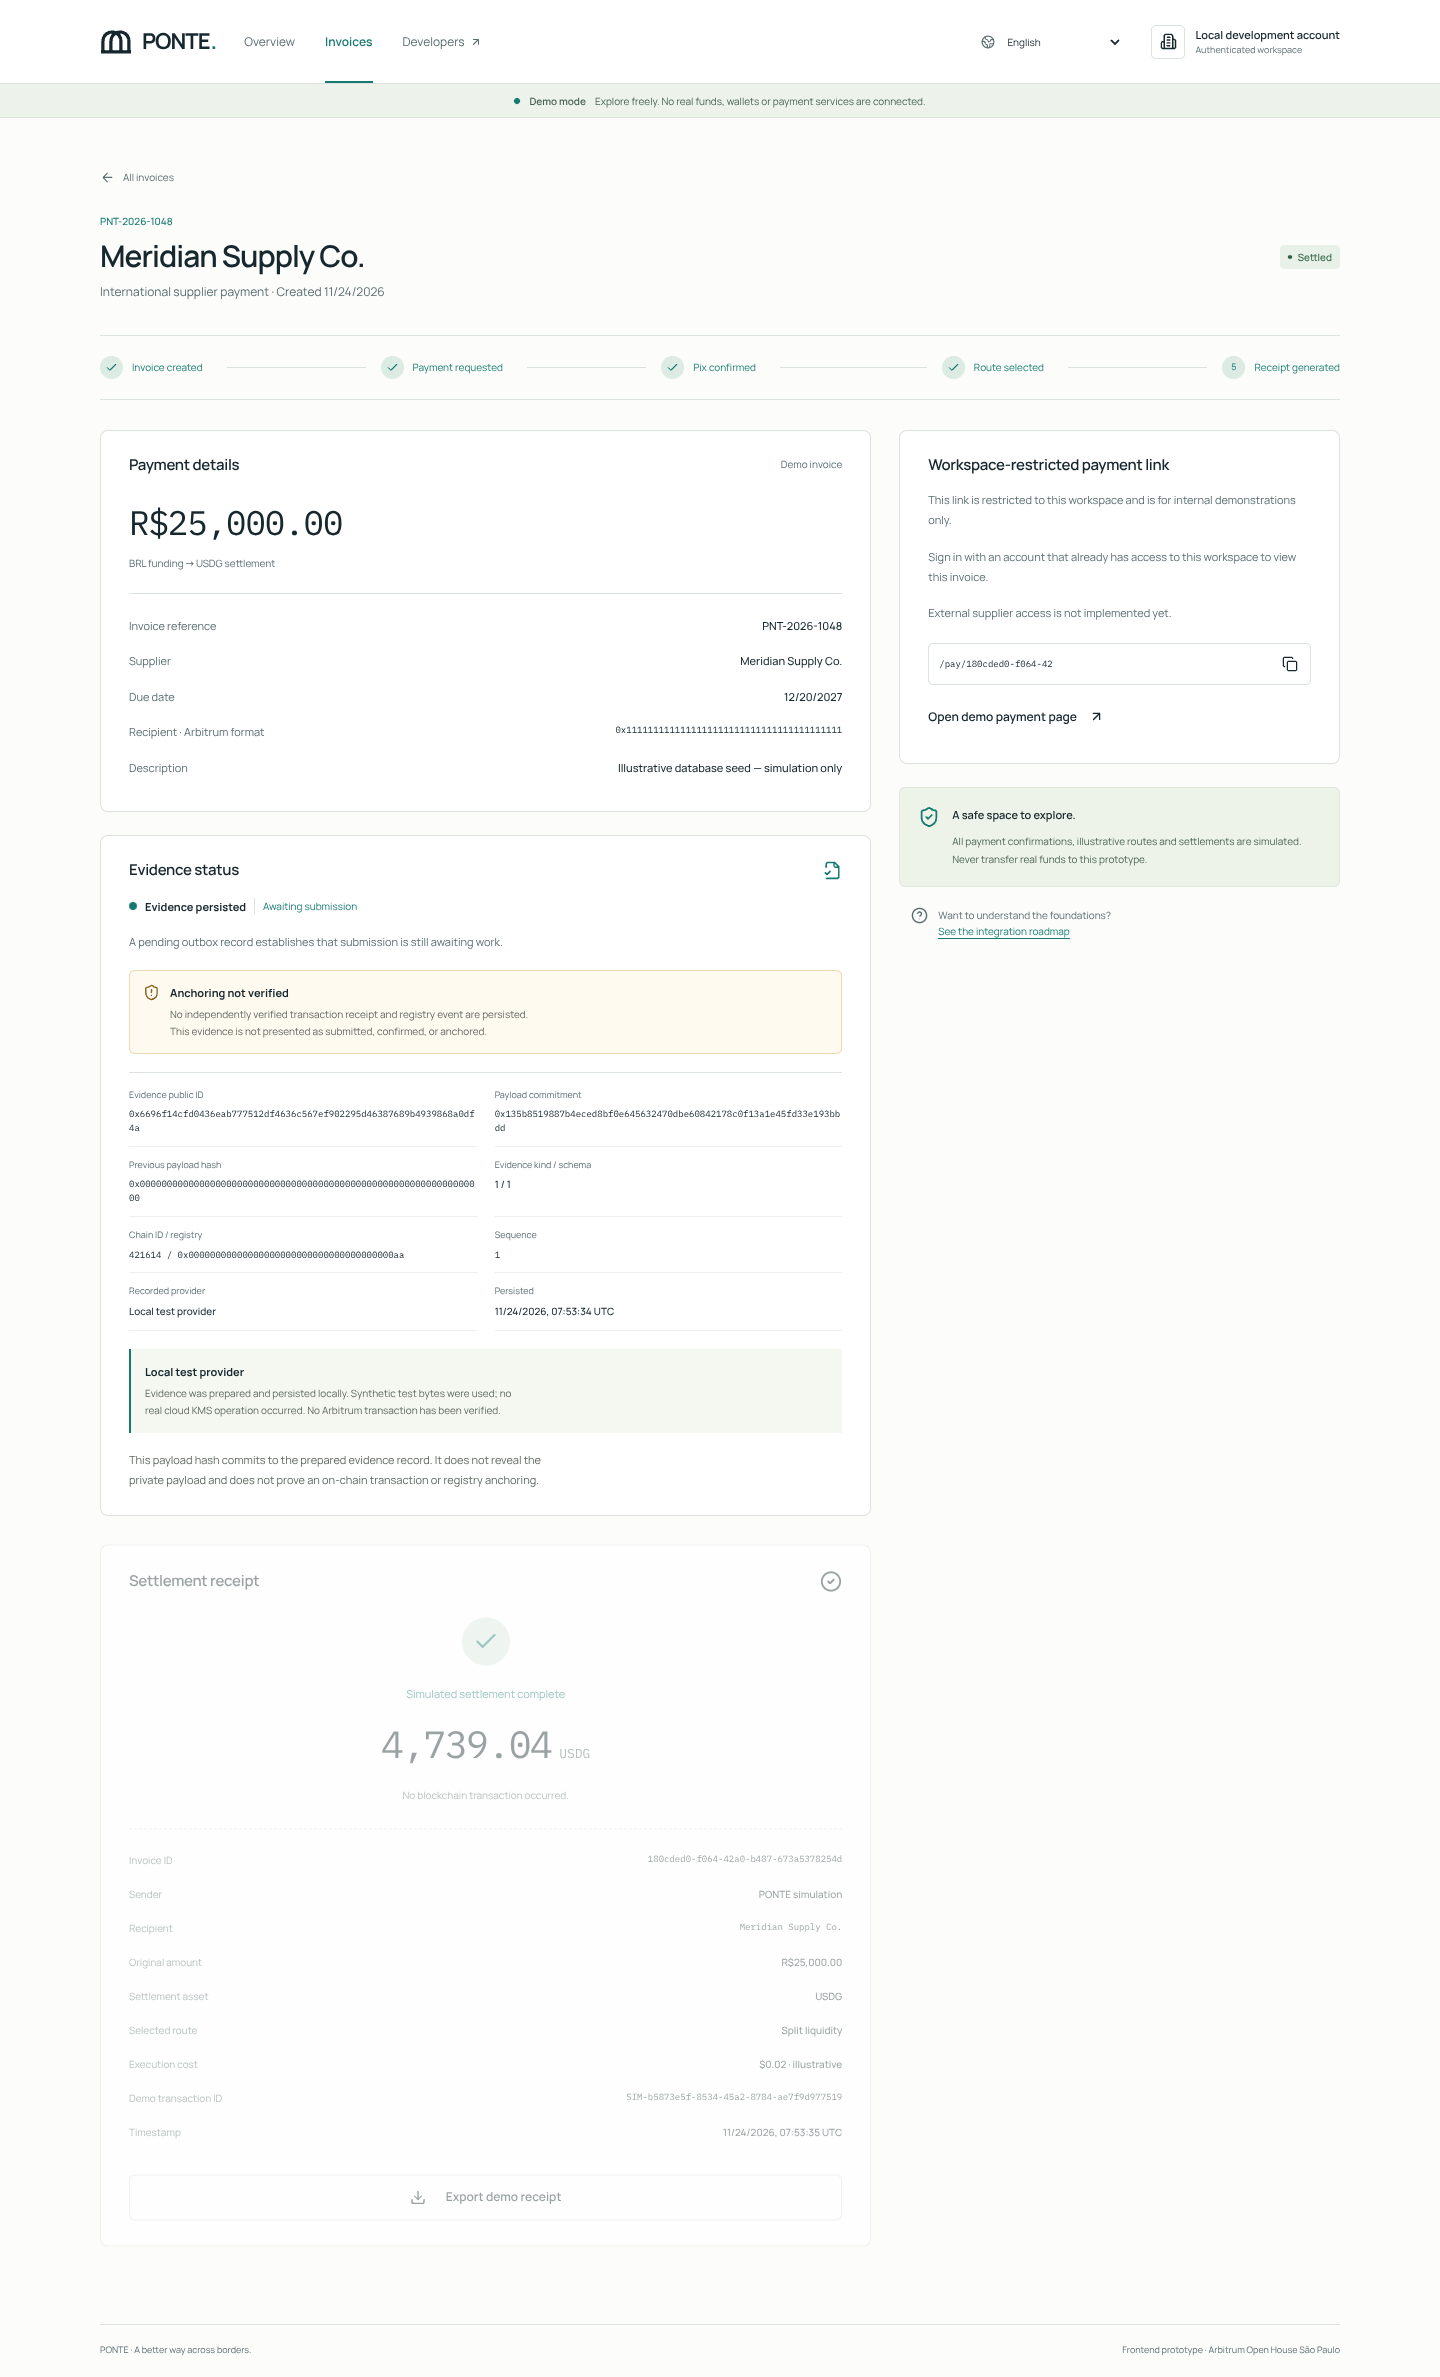
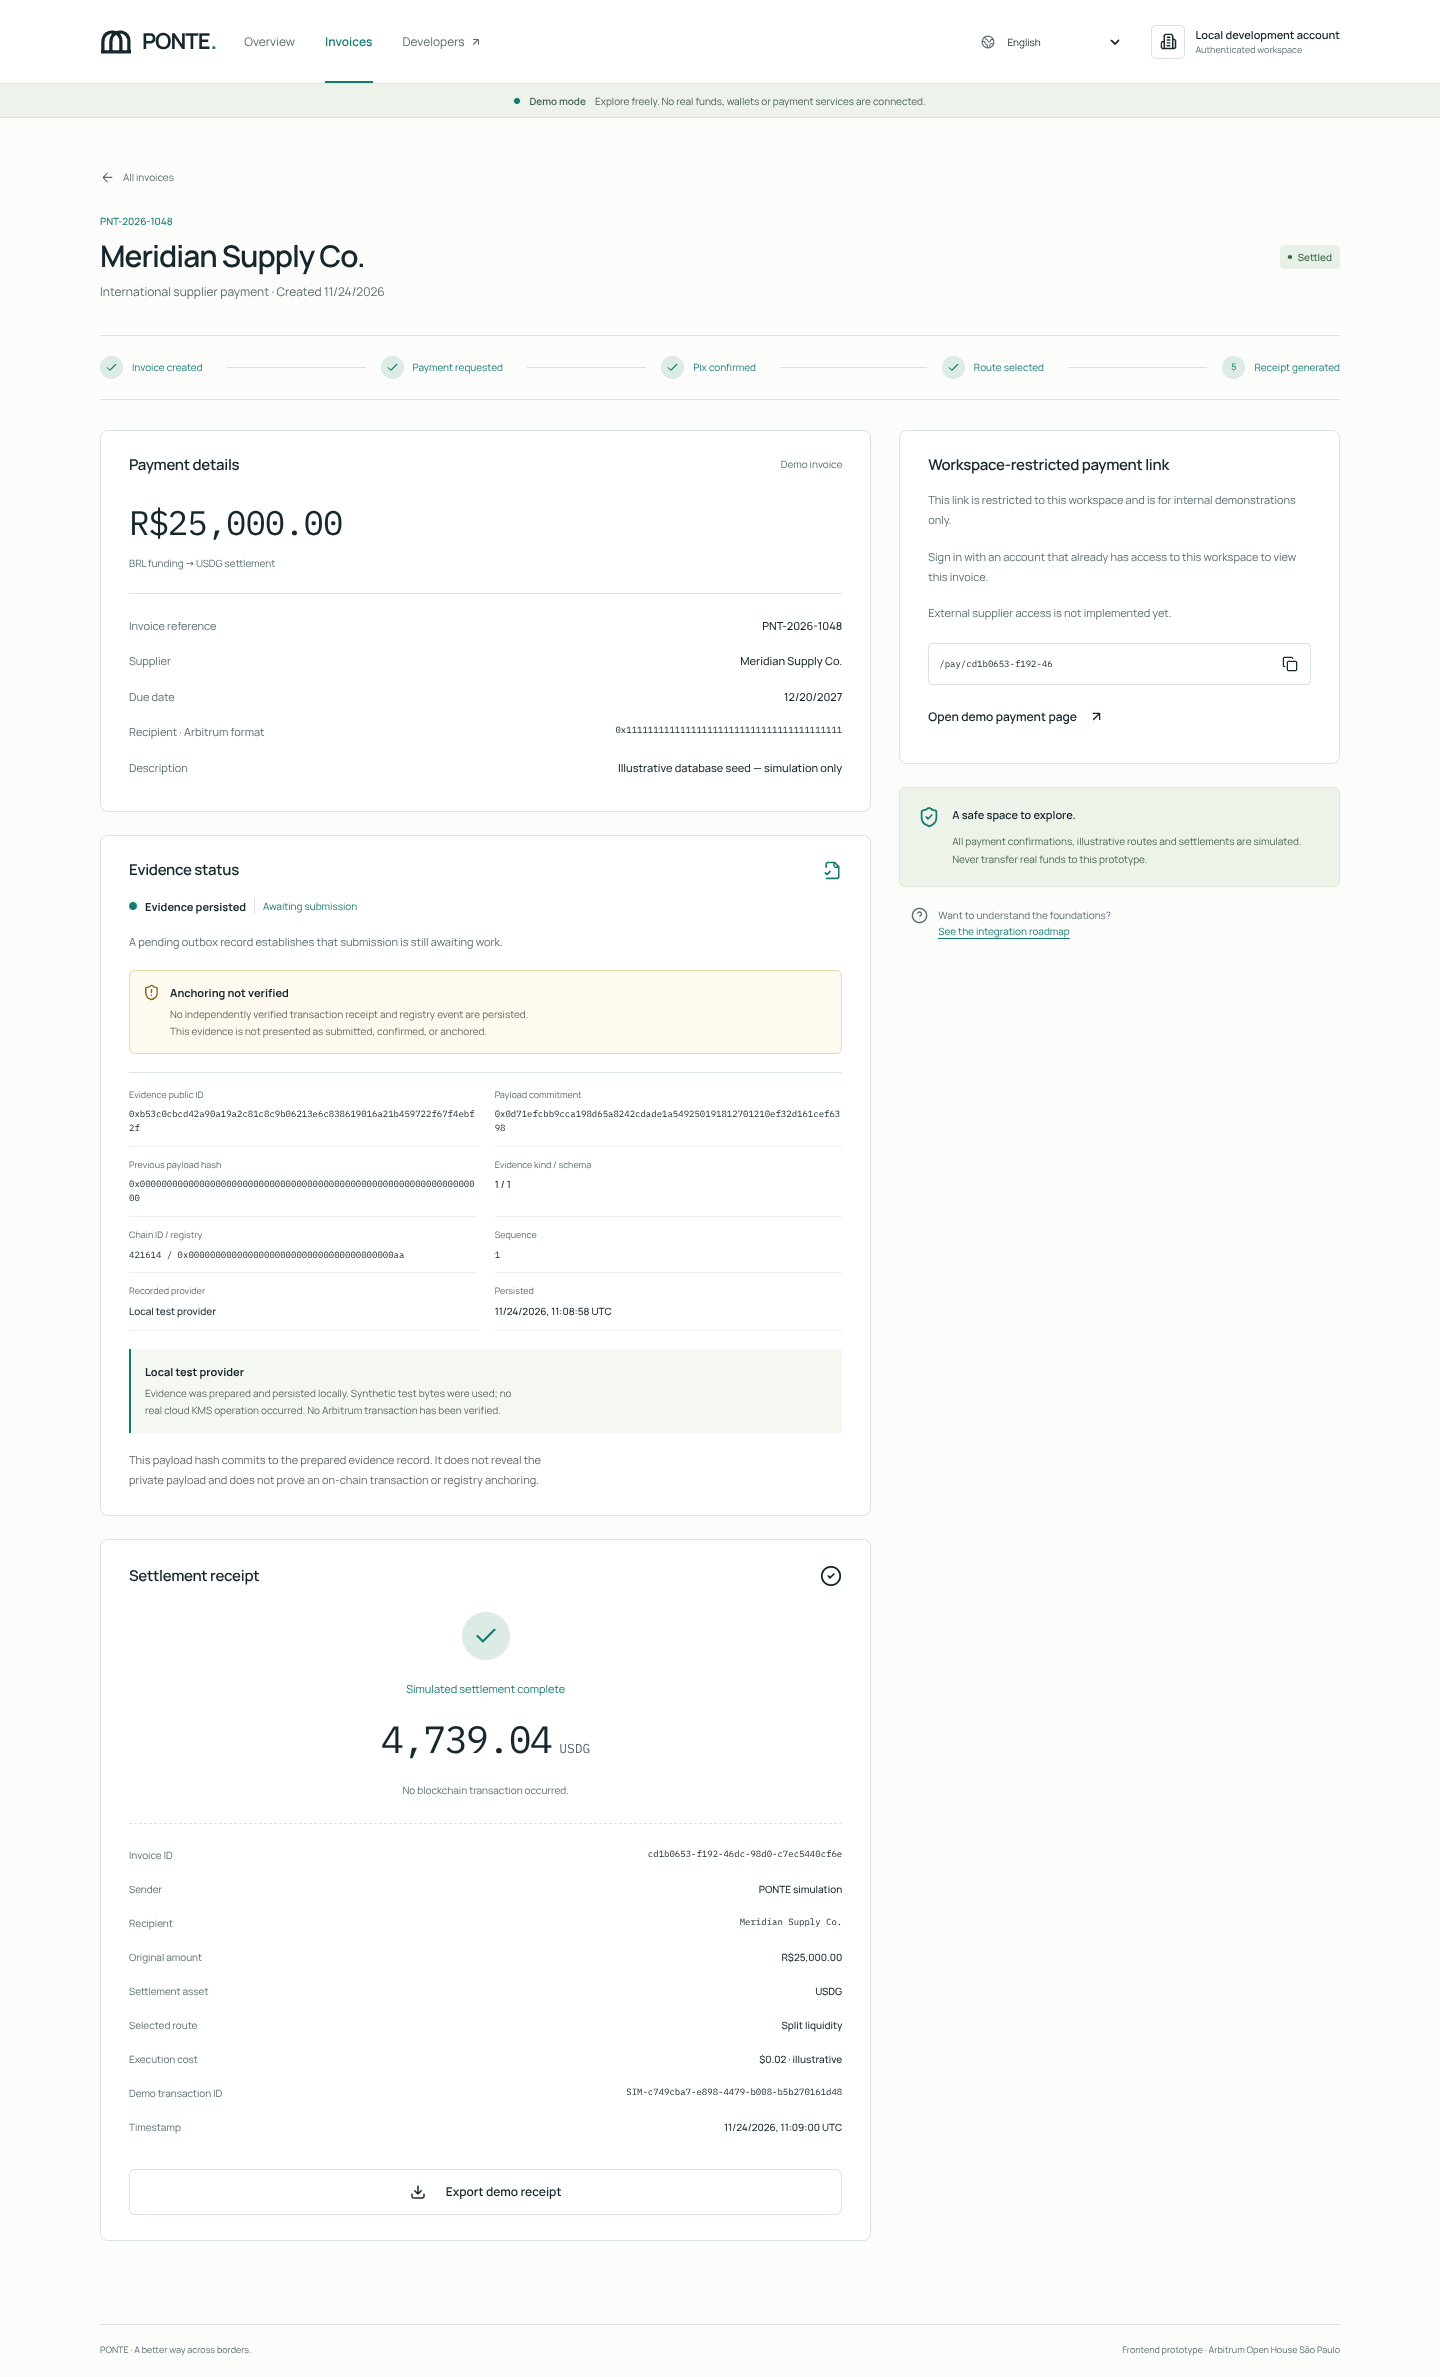
fix(demo): settle captures, fix mobile stepper, compose route shot
Three visual defects found in the PR #17 screenshot review.

1. receipt-desktop.png rendered mid-animation. The receipt panel is a Motion
   section (initial opacity 0 -> 1) and was captured by a fixed 500ms timer, so
   every line, including 'No blockchain transaction occurred', appeared at
   about 2.6:1 contrast. capture-hackathon-screenshots.mjs now waits for that
   section's computed opacity and transform to reach their resting values
   before shooting, and drains any remaining running animations.

2. Every 'await page.getByRole(...)' in the script was a lazy locator evaluated
   as a bare expression, which waits for nothing. Replaced with .waitFor() /
   waitForHeading() so each page is confirmed ready before a capture.

3. 'Receipt generated' was clipped at 390px. The mobile journey rule set
   min-width: 73px per step plus overflow:auto, making the track wider than the
   viewport, so the last label ran off the edge. Steps are now five equal grid
   columns with a wrapping label and no horizontal scroll. Inactive labels use
   --slate (~5.0:1) instead of #6b7a70 (~4.2:1), and mobile label size rises
   from 7px to 9px (8.5px at 360px). Completed steps keep the teal + jade fill,
   so the done/pending distinction is unchanged.

4. invoice-routes-desktop.png was half empty: at 1440 the invoice page is a
   two-column grid whose aside is ~440px tall against a ~900px main column. It
   is now captured at 850px, the width where that grid becomes one column, so
[…]

diff --git a/src/app/globals.css b/src/app/globals.css
@@ -1497,7 +1497,8 @@ select {
   gap: 9px;
   flex: 1;
   position: relative;
-  color: #6b7a70;
+  /* Inactive steps: #6b7a70 is only ~4.2:1 on chalk; --slate is ~5.0:1. */
+  color: var(--slate);
 }
 .journey > div:after {
   content: "";
@@ -3062,8 +3063,19 @@ dialog .form-actions {
     gap: 0;
     margin-bottom: 23px;
   }
+  /* Five equal columns instead of a min-width pre-scroll track. The old rule set
+     min-width on each step and `overflow: auto`, so the track was wider than the
+     viewport and the last label ("Receipt generated") was clipped at the edge.
+     Equal columns plus a wrapping label keep all five readable with no
+     horizontal scrolling. */
+  .journey {
+    display: grid;
+    grid-auto-flow: column;
+    grid-auto-columns: 1fr;
+    overflow: visible;
+  }
   .journey > div {
-    min-width: 73px;
+    min-width: 0;
     flex-direction: column;
     gap: 6px;
     align-items: flex-start;
@@ -3075,14 +3087,16 @@ dialog .form-actions {
     top: 10px;
     margin: 0;
   }
-  .journey small {
-    font-size: 7px;
+  .journey > div > small {
+    font-size: 9px;
     white-space: normal;
-    max-width: 60px;
+    overflow-wrap: anywhere;
+    line-height: 1.35;
+    max-width: none;
     position: relative;
   }
   .journey > div:last-child {
-    min-width: 57px;
+    min-width: 0;
   }
   .detail-grid {
     gap: 0;
@@ -3223,11 +3237,8 @@ dialog .form-actions {
   .metrics article > strong {
     font-size: 19px;
   }
-  .journey > div {
-    min-width: 66px;
-  }
-  .journey small {
-    font-size: 6.8px;
+  .journey > div > small {
+    font-size: 8.5px;
   }
 }
 @media (prefers-reduced-motion: reduce) {

diff --git a/docs/HACKATHON_DEMO_EVIDENCE.md b/docs/HACKATHON_DEMO_EVIDENCE.md
@@ -132,3 +132,15 @@ Regenerated from the running application at the current branch state:
 - `docs/screenshots/developers-desktop.png`, `docs/screenshots/developers-mobile.png`
 
 Files prefixed `phase1.1-pt-` are historical Phase 1.1 visual baselines and are not current product evidence.
+
+Composition notes, so the images are read for what they are:
+
+- `invoice-routes-desktop.png` is captured at **850 CSS px**, not 1440. At 1440 the
+  invoice page is a two-column grid whose right column (the workspace-restricted
+  payment link, ~440 px tall) is much shorter than the left column (~900 px), which
+  leaves a large white area on the right. 850 px is the width at which that grid
+  collapses to one column, so the same content — funding details, simulation
+  notices, evidence labels and all three route candidates — fills the frame with no
+  empty region and nothing removed. It is a narrower viewport, not a crop.
+- Screenshots are captured only after the page's enter transitions have settled, so
+  no panel is rendered mid-animation.
